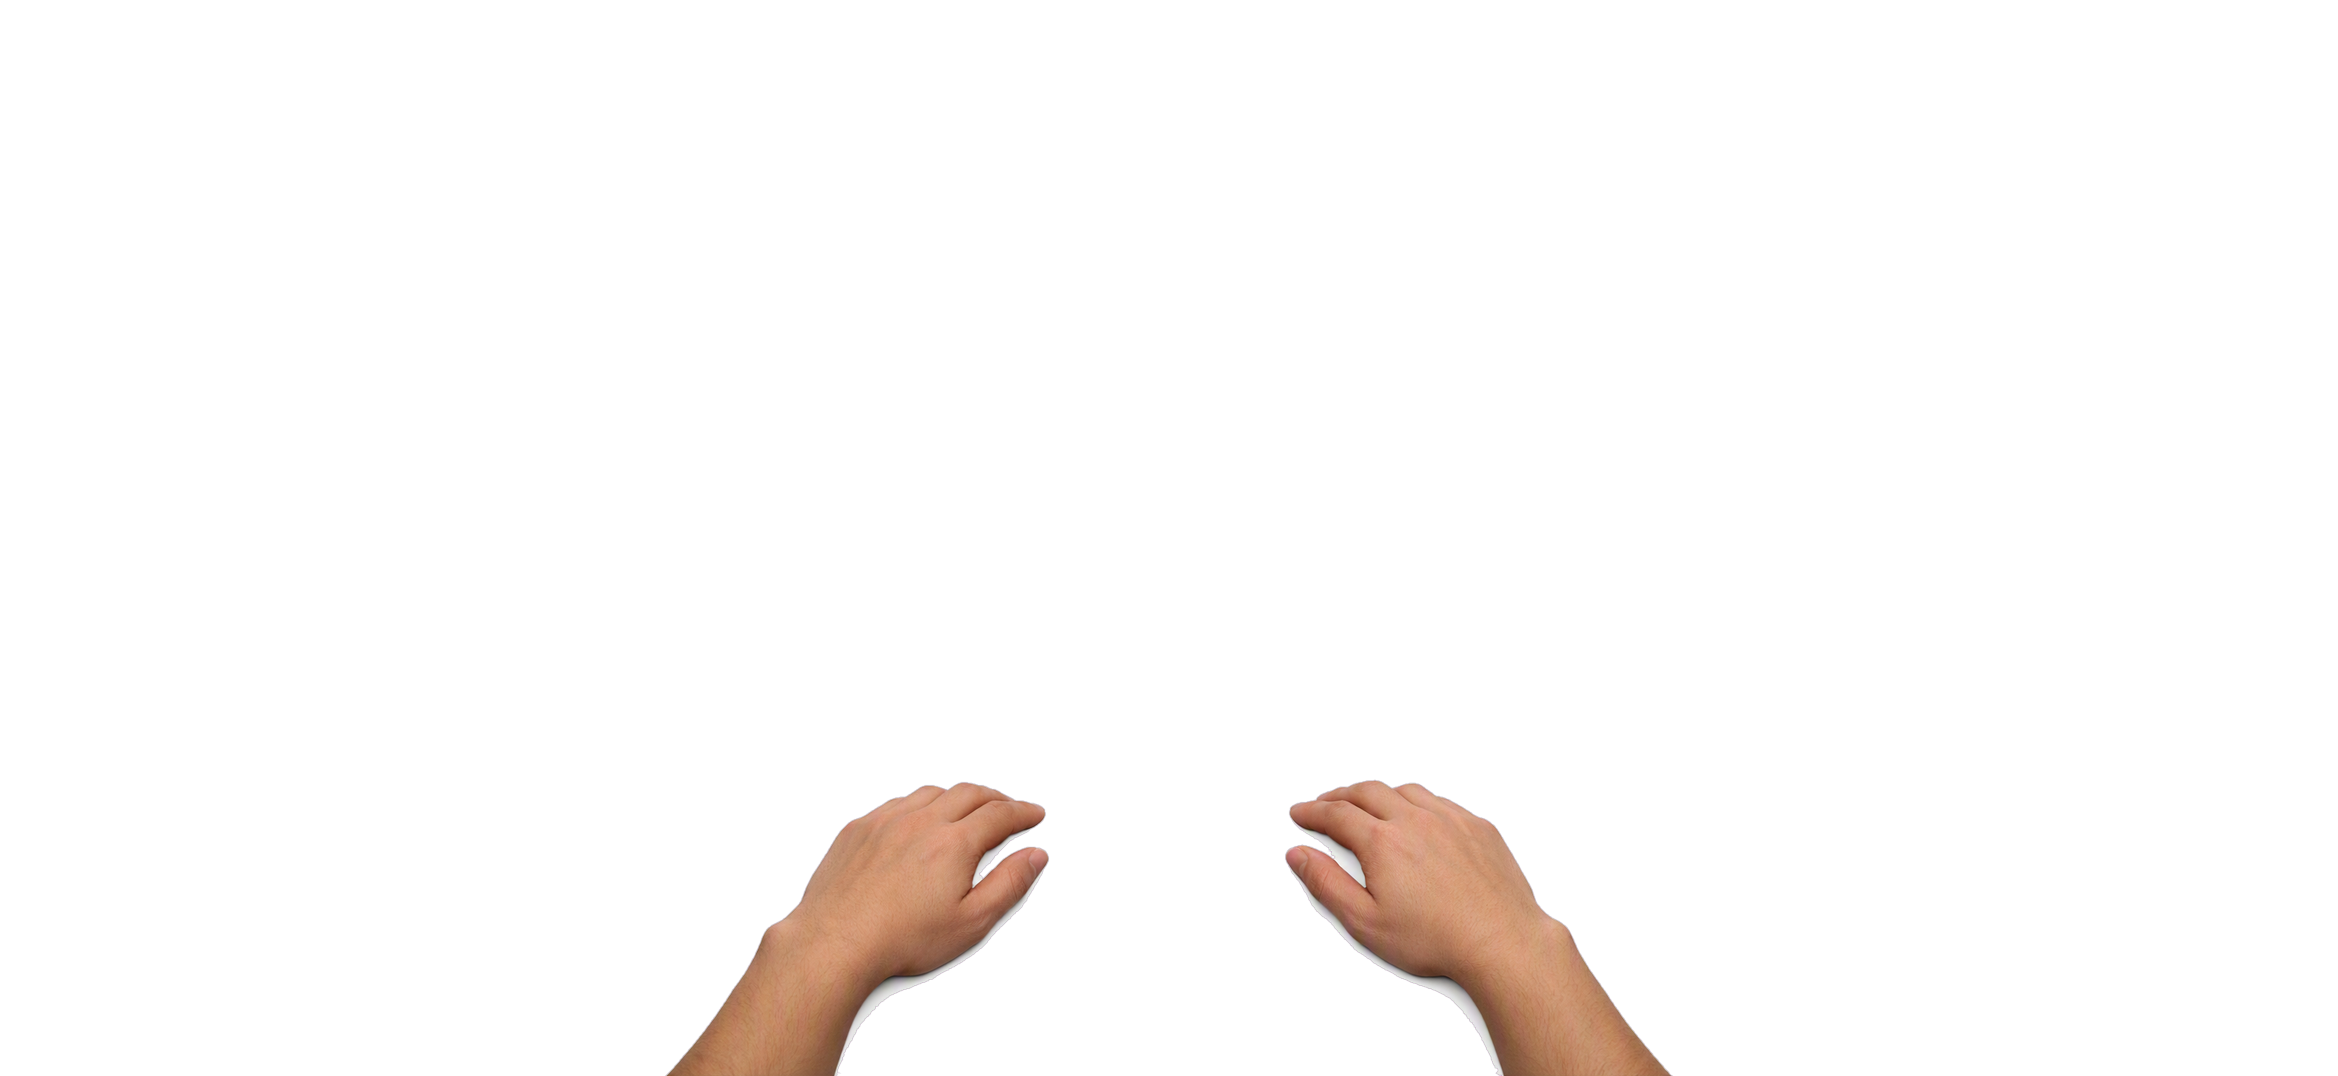
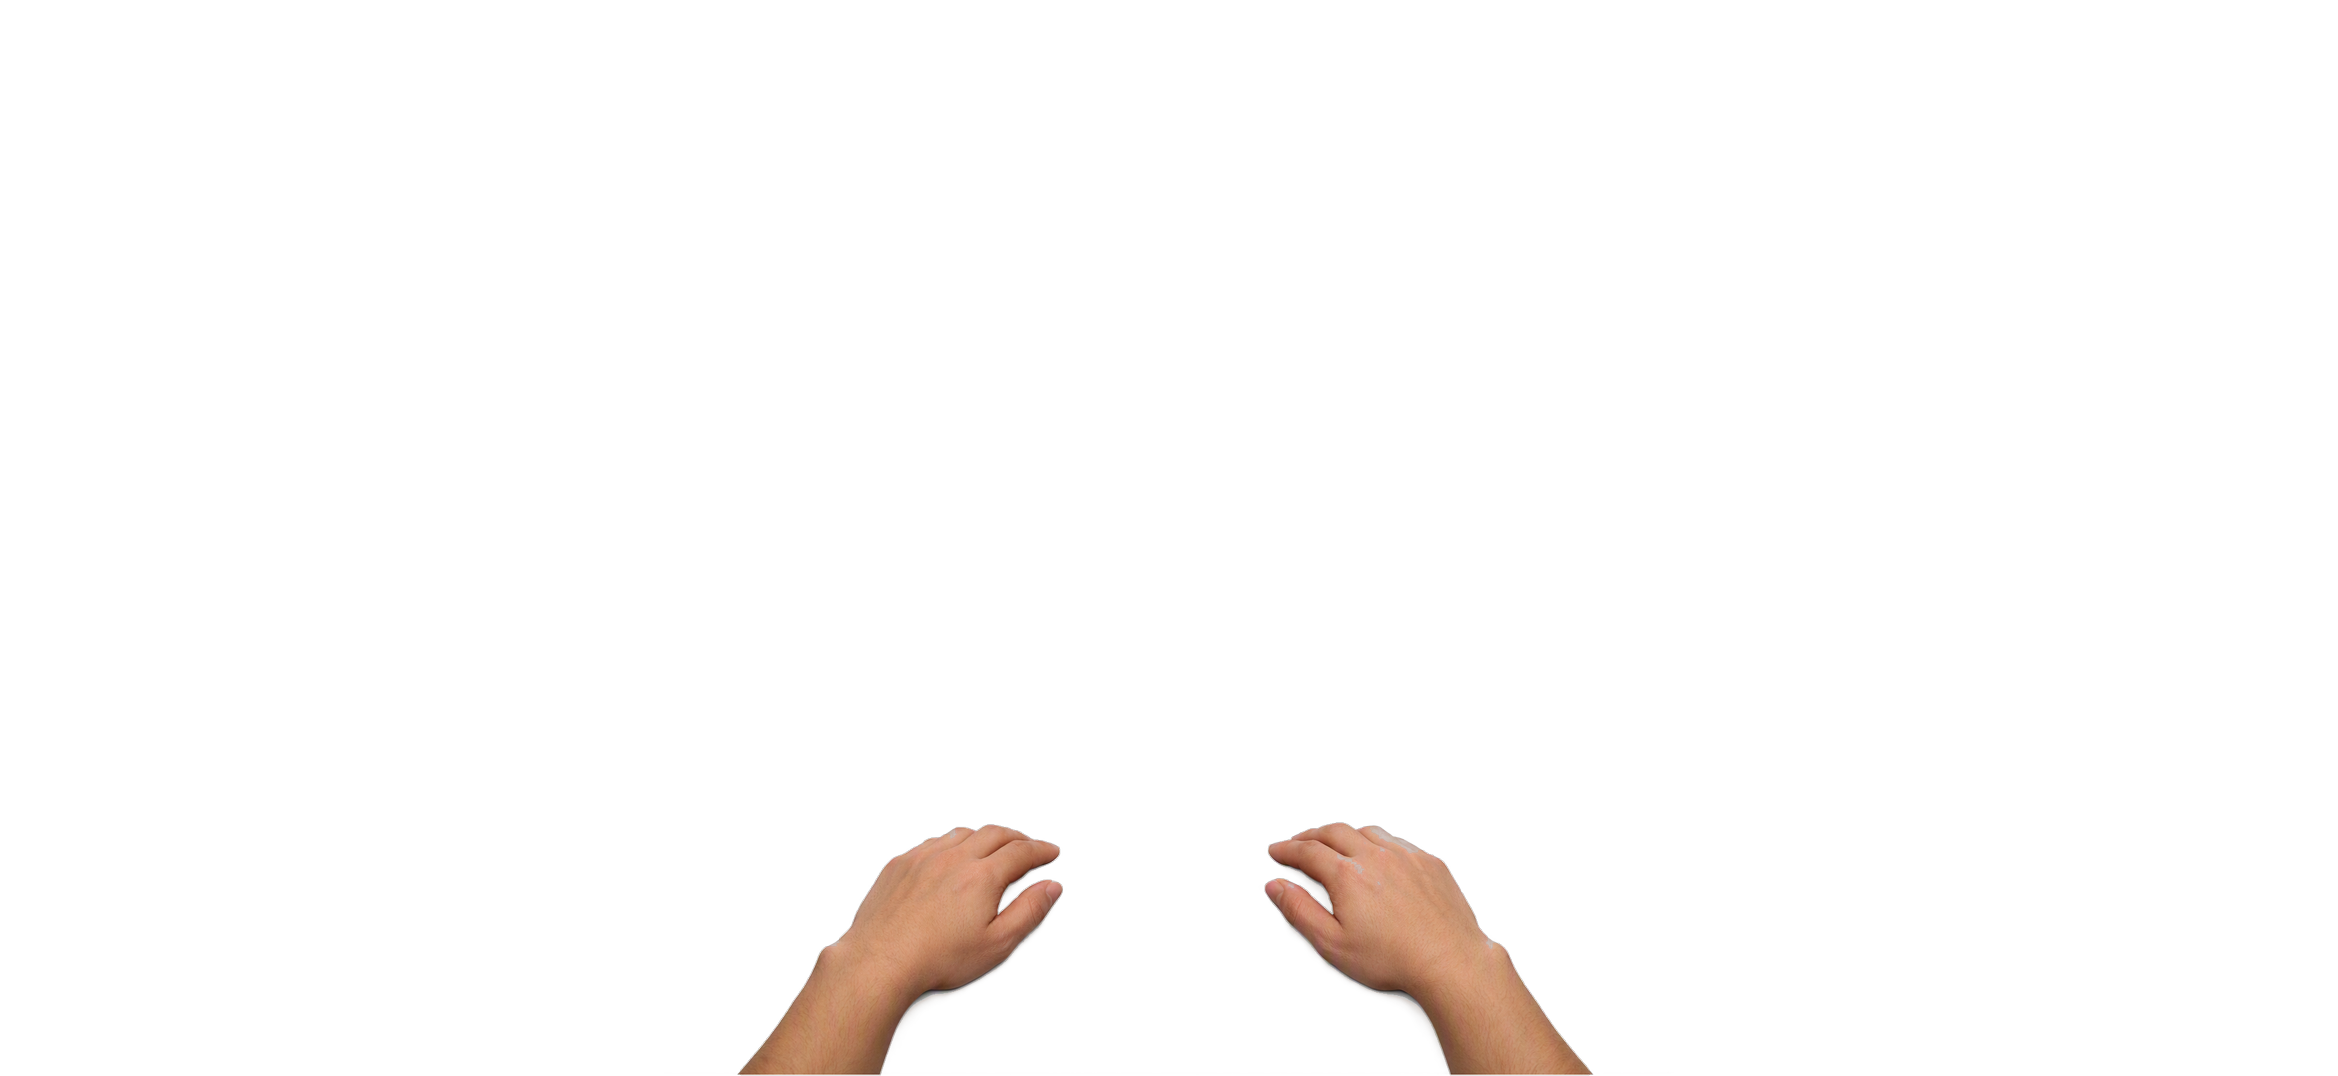
Le blanc autour des mains, les textes du craft, les contours
Trois retouches d'apres ce qui se voyait a l'ecran.

LE BLANC AUTOUR DES MAINS. Ce n'etait pas une frange mais un APLAT, enferme
dans la courbe de la main : un remplissage venu des bords de l'image ne peut
pas y entrer. Et meme comble, il restait un lisere, parce qu'un pixel de bord
n'est ni fond ni peau mais un MELANGE des deux -- aucun seuil ne peut le
trancher correctement.

Le detourage se fait donc par MATTE : le canal bleu separe nettement le fond
(251) de la peau (105), et la part de peau s'y lit directement, ce qui donne
une transparence PARTIELLE la ou le melange est partiel. L'interieur est
force opaque a part, sinon un reflet clair sur une jointure rendrait la main
translucide. Mesure sur fond sombre : 13.1 % de pixels de bord blanchatres
avant, 0.5 % apres -- le niveau des images d'origine, qui elles sont propres.

TEXTES DU CRAFT. Les recettes et les libelles portaient un facteur 1.5, cale
du temps ou le craft s'affichait en deux moities d'ecran. Depuis qu'il a trois
colonnes, celle des recettes fait 37 % : a la meme taille le texte y etait
enorme. Facteur retire, et les en-tetes de categorie resserres.

CONTOURS DE BOUTONS. 2.0 dp etait trop epais sur un ecran qui en compte
beaucoup, et mangeait la place du texte sur les petits. Ramenes a 1.2 dp
(1.8 pour l'onglet ouvert, qui doit rester le plus reperable).

Claude-Session: https://claude.ai/code/session_01Fr6Pc8gacEksqD6XxyuikW

Changed region(s): [[0.5308, 0.7054, 0.7181, 1.0], [0.281, 0.7054, 0.4683, 1.0]]

diff --git a/src/screens/craft_screen.py b/src/screens/craft_screen.py
@@ -55,15 +55,19 @@ def _btn_font(w, *_):
 
 
 def _recipe_text_font(w, *_):
-    """Police du texte d'une recette : 1.5x sa taille d'origine.
+    """Police du texte d'une recette.
 
-    A l'origine le texte remplissait une ligne haute de dh(70). On garde cette
-    reference (independante de la hauteur AGRANDIE de la rangee, sinon le texte
-    grossirait bien plus que voulu) et on la multiplie par 1.5. dh(70) est relu
-    a chaque appel -> le texte reste responsive au redimensionnement.
+    Le texte remplit une ligne haute de dh(70). Cette reference est
+    independante de la hauteur AGRANDIE de la rangee, sinon le texte
+    grossirait bien plus que voulu ; dh(70) est relu a chaque appel, donc le
+    texte suit le redimensionnement de la fenetre.
+
+    Il portait un facteur 1.5, cale du temps ou les recettes occupaient la
+    MOITIE de l'ecran. Elles tiennent maintenant dans une colonne de 37 % :
+    a la meme taille, le texte y etait enorme.
     """
     lines = (w.text or "").count("\n") + 1
-    w.font_size = max(10, dh(70) * 0.78 / lines * 1.5)
+    w.font_size = max(10, dh(70) * 0.78 / lines)
 
 
 def _fit_button_font(btn, *_):
@@ -84,13 +88,15 @@ def _fit_button_font(btn, *_):
 
 
 def _inv_label_font(w, *_):
-    """Police d'un libelle d'inventaire (nom de main / "A proximite") : 1.5x sa
-    taille d'origine (0.4 d'une rangee de dh(140), ancree sur dh(140) pour rester
-    a 1.5x malgre la rangee plus haute), MAIS reduite si besoin pour tenir sur
-    UNE seule ligne dans sa largeur (sinon un libelle long deborde sur 2 lignes)."""
+    """Police d'un libelle (nom de main...), reduite si besoin pour tenir sur
+    UNE seule ligne dans sa largeur -- sinon un libelle long deborde sur deux.
+
+    Comme pour les recettes, le facteur 1.5 d'origine datait de la mise en
+    page en deux moities et rendait le texte trop gros dans les colonnes
+    etroites d'aujourd'hui."""
     if w.width <= 1:
         return
-    target = dh(140) * 0.4 * 1.5
+    target = dh(140) * 0.4
     # Mesure la largeur naturelle du texte a la taille cible, sans contrainte.
     w.text_size = (None, None)
     w.font_size = target
@@ -375,7 +381,7 @@ class CraftScreen(Screen):
             head = StyledButton(
                 text=f"{'-' if opened else '+'}  {category}   "
                      f"({ready}/{len(group)})",
-                halign="left", bold=True, size_hint_y=None, height=dh(110))
+                halign="left", bold=True, size_hint_y=None, height=dh(84))
             head.bind(size=_btn_font)
             head.bind(on_release=lambda _w, c=category: self._toggle_cat(c))
             head.selected = opened          # categorie depliee = allumee

diff --git a/src/widgets/styled_button.py b/src/widgets/styled_button.py
@@ -44,10 +44,12 @@ BORDER_OFF = (0.58, 0.58, 0.62, 0.32)
 TEXT_IDLE = (0.95, 0.96, 1, 1)
 TEXT_OFF = (0.62, 0.62, 0.66, 0.55)      # texte pali : le gris se lit de loin
 
-# Epaisseurs de contour. Le bouton choisi est plus epais : c'est lui qu'on
-# doit reperer sans chercher.
-LINE_W = dp(2.0)
-LINE_W_ON = dp(2.8)
+# Epaisseurs de contour. Le bouton choisi reste le plus epais : c'est lui
+# qu'on doit reperer sans chercher. Volontairement FINES : un trait epais
+# alourdit un ecran qui compte beaucoup de boutons, et mange la place du
+# texte sur un petit bouton.
+LINE_W = dp(1.2)
+LINE_W_ON = dp(1.8)
 RADIUS = dp(16)
 
 
